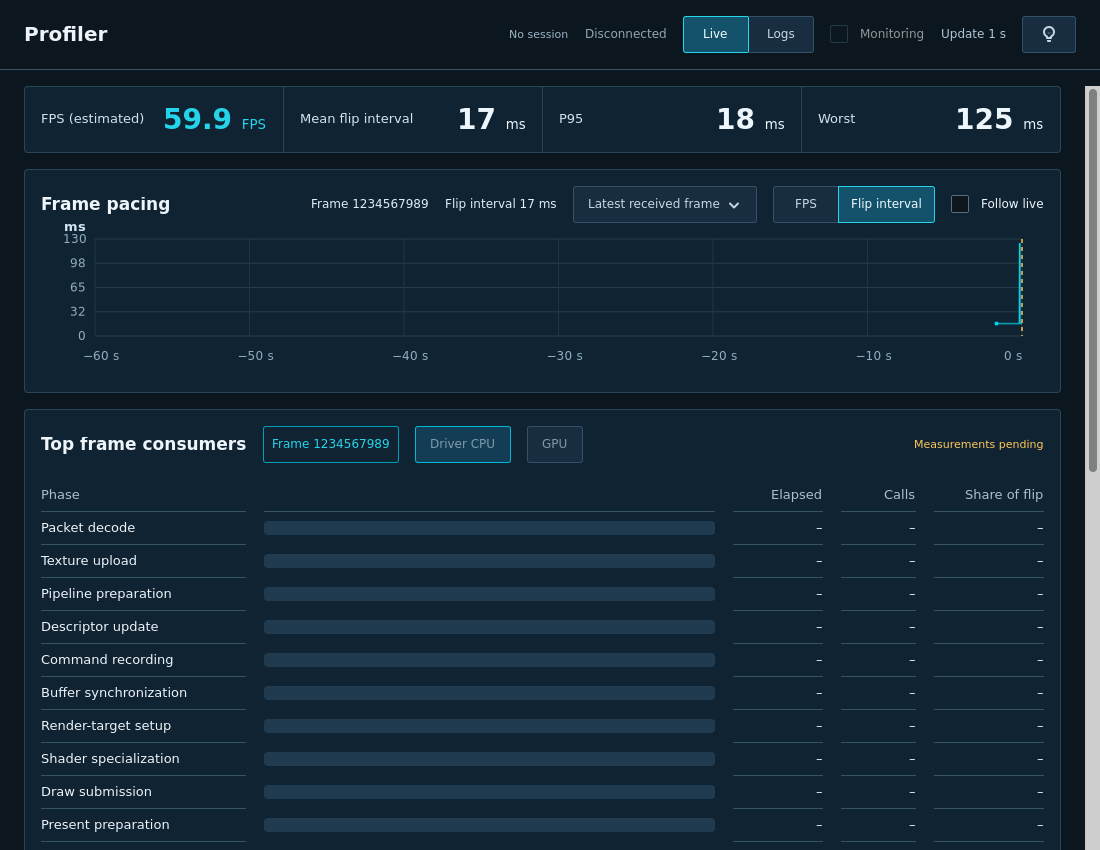
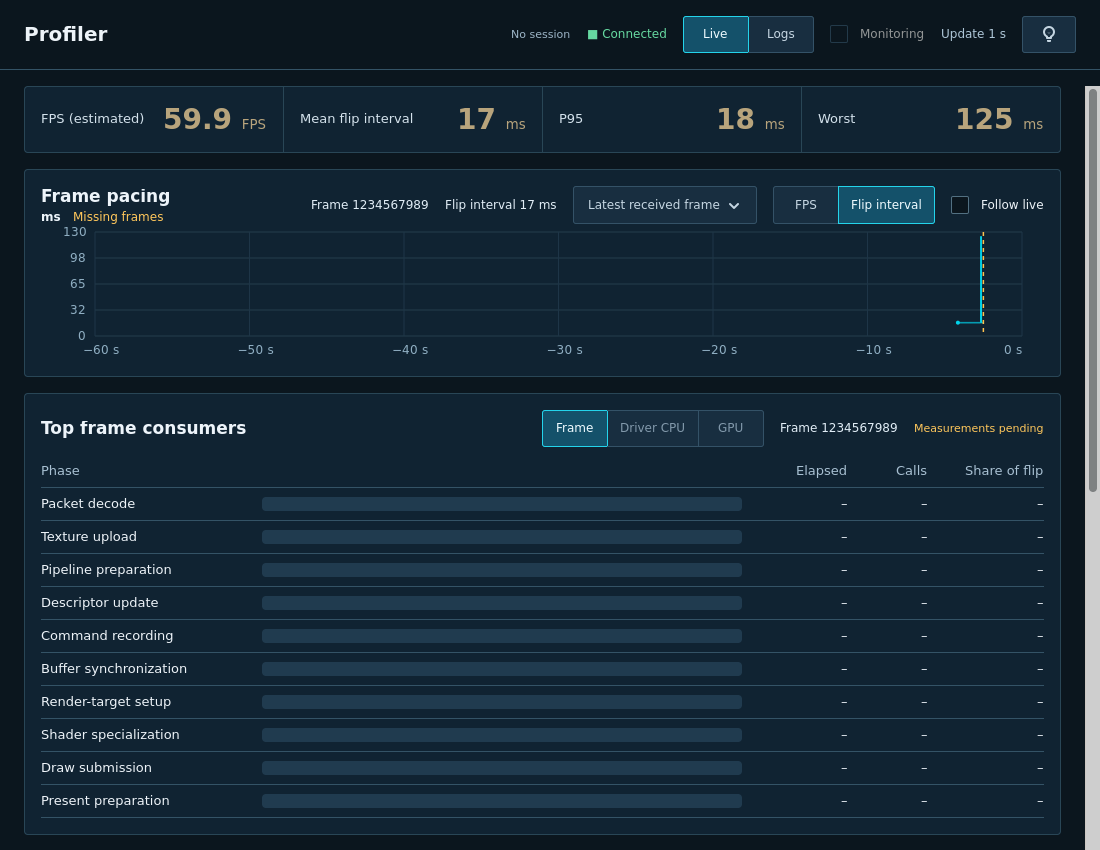
fix(profiler): align chart labels and consumer rows without a footer

diff --git a/assets/ui/style.css b/assets/ui/style.css
@@ -85,9 +85,10 @@ button { box-shadow: none; text-shadow: none; }
 .monitor-heading { font-size: 17px; font-weight: 600; color: #edf4fa; }
 .frame-value { font-size: 12px; color: #e1edf6; font-feature-settings: "tnum"; }
 .resource-row > flowboxchild { padding: 0; border: none; background: transparent; }
-.consumer-frame { color: #24d4eb; font-size: 12px; padding: 5px 8px; border: 1px solid #009fb9; border-radius: 3px; }
 .consumer-pending { font-size: 11px; color: #ffc75b; }
-.consumer-cell { font-size: 13px; padding: 8px 0; border-bottom: 1px solid #345366; }
+.consumer-cell { font-size: 13px; }
+.consumer-row { padding: 8px 0; border-bottom: 1px solid #345366; }
+.consumer-row.consumer-column { padding-top: 0; }
 .consumer-column { color: #a8c0d2; }
 .numeric, .resource-value { font-feature-settings: "tnum"; }
 .consumer-bar trough { min-height: 14px; border: none; border-radius: 4px; background: #203b4f; }
@@ -101,16 +102,23 @@ button { box-shadow: none; text-shadow: none; }
 .resource-gauge progress { min-width: 0; margin: 0; padding: 0; min-height: 8px; border: none; border-radius: 4px; background: #24d4eb; }
 .resource-gauge.over-budget progress { background: #e4ac5a; }
 .resource-panel.stale .resource-gauge { opacity: .5; }
-.profiler-footer { border-top: 1px solid #345366; padding: 16px 0 0; }
 .console-frame { border: 1px solid #294656; border-radius: 4px; background: #122431; }
 .profiler-console { padding: 0 24px 24px; }
 .console-empty { color: #8fa8ba; font-size: 15px; }
 
 .chart-header-overlay { background: #102332; }
 .profiler-page .segmented-control button { border-radius: 0; min-width: 40px; padding: 5px 12px; }
-/* The second button owns the shared divider; no overlapping borders. */
-.profiler-page .segmented-control button:first-child { border-radius: 3px 0 0 3px; border-right-width: 0; }
+/* Each following button owns its shared divider; no overlapping borders. */
+.profiler-page .segmented-control button:not(:last-child) { border-right-width: 0; }
+.profiler-page .segmented-control button:first-child { border-radius: 3px 0 0 3px; }
 .profiler-page .segmented-control button:last-child { border-radius: 0 3px 3px 0; }
 .profiler-page .segmented-control button:checked { background: #14516a; border-color: #24d4eb; color: #effbff; }
 .profiler-page .segmented-control button:checked + button { border-left-color: #24d4eb; }
 .profiler-page .segmented-control button:focus-visible { outline: 2px solid #a1e9f3; outline-offset: -3px; }
+
+.chart-unit { font-size: 12px; font-weight: 600; color: #edf4fa; }
+.chart-stale { font-size: 12px; color: #ffc75b; }
+
+.profiler-info { color: #edf4fa; }
+.profiler-info contents { background: #102332; border: 1px solid #294656; border-radius: 4px; padding: 16px; }
+.profiler-info arrow { background: #102332; border-color: #294656; }

diff --git a/src/ui/profiler.cpp b/src/ui/profiler.cpp
@@ -54,8 +54,8 @@ void chart_text(cairo_t* context, double x, double y, const std::string& text, b
 
 constexpr double chart_left = 54;
 constexpr double chart_right = 22;
-constexpr double chart_header_gap = 16;
-constexpr double chart_bottom = 40;
+constexpr double chart_header_gap = 8;
+constexpr double chart_bottom = 24;
 
 std::optional<double> chart_value(const MonitoringSnapshot& snapshot, std::size_t index, bool fps) {
     if (fps) return monitoring_fps_at(snapshot.samples, index);
@@ -140,7 +140,13 @@ ProfilerView::ProfilerView(std::function<void(bool)> request_monitoring)
         gtk_label_set_selectable(GTK_LABEL(endpoint), true);
         gtk_box_append(GTK_BOX(bridge), endpoint);
     }
+    window_state_ = label("Last 1 s", "resource-scope");
+    coverage_ = label("– / – samples · –", "monitor-coverage");
+    freshness_ = label("Latest frame received –", "monitor-freshness");
+    for (auto* diagnostic : {window_state_, coverage_, freshness_})
+        gtk_box_append(GTK_BOX(bridge), diagnostic);
     auto* popover = gtk_popover_new();
+    gtk_widget_add_css_class(popover, "profiler-info");
     gtk_popover_set_child(GTK_POPOVER(popover), bridge);
     auto* details = gtk_menu_button_new();
     gtk_menu_button_set_icon_name(GTK_MENU_BUTTON(details), "dialog-information-symbolic");
@@ -174,8 +180,18 @@ ProfilerView::ProfilerView(std::function<void(bool)> request_monitoring)
     auto* chart_panel = card();
     gtk_widget_add_css_class(chart_panel, "pacing-panel");
     auto* chart_header = gtk_box_new(GTK_ORIENTATION_HORIZONTAL, 16);
-    auto* chart_title = label("Frame pacing", "monitor-heading");
+    auto* chart_title = gtk_box_new(GTK_ORIENTATION_VERTICAL, 4);
     gtk_widget_set_hexpand(chart_title, true);
+    gtk_widget_set_valign(chart_title, GTK_ALIGN_START);
+    gtk_box_append(GTK_BOX(chart_title), label("Frame pacing", "monitor-heading"));
+    auto* chart_context = gtk_box_new(GTK_ORIENTATION_HORIZONTAL, 12);
+    chart_unit_ = label("FPS", "chart-unit");
+    gtk_box_append(GTK_BOX(chart_context), chart_unit_);
+    stall_state_ = label("", "chart-stale");
+    gtk_label_set_ellipsize(GTK_LABEL(stall_state_), PANGO_ELLIPSIZE_END);
+    gtk_widget_set_visible(stall_state_, false);
+    gtk_box_append(GTK_BOX(chart_context), stall_state_);
+    gtk_box_append(GTK_BOX(chart_title), chart_context);
     gtk_box_append(GTK_BOX(chart_header), chart_title);
     frame_identity_ = label("Frame –", "frame-value");
     frame_interval_ = label("Flip interval –", "frame-value");
@@ -198,6 +214,7 @@ ProfilerView::ProfilerView(std::function<void(bool)> request_monitoring)
     g_signal_connect(chart_fps_button_, "toggled", G_CALLBACK(+[](GtkToggleButton* button, gpointer data) {
         auto& self = *static_cast<ProfilerView*>(data);
         self.chart_fps_ = gtk_toggle_button_get_active(button);
+        gtk_label_set_text(GTK_LABEL(self.chart_unit_), self.chart_fps_ ? "FPS" : "ms");
         gtk_widget_queue_draw(self.chart_);
     }), this);
     gtk_box_append(GTK_BOX(chart_header), modes.root);
@@ -218,7 +235,7 @@ ProfilerView::ProfilerView(std::function<void(bool)> request_monitoring)
     chart_header_ = chart_header;
     gtk_widget_add_css_class(chart_header, "chart-header-overlay");
     chart_ = gtk_drawing_area_new();
-    gtk_drawing_area_set_content_height(GTK_DRAWING_AREA(chart_), 190);
+    gtk_drawing_area_set_content_height(GTK_DRAWING_AREA(chart_), 174);
     gtk_widget_set_hexpand(chart_, true);
     gtk_widget_set_tooltip_text(chart_, "FPS counts completed flips in the preceding source second. Click a sample to inspect. Missing samples are not interpolated.");
     gtk_drawing_area_set_draw_func(GTK_DRAWING_AREA(chart_), +[](GtkDrawingArea*, cairo_t* context, int width, int height, gpointer data) {
@@ -246,52 +263,52 @@ ProfilerView::ProfilerView(std::function<void(bool)> request_monitoring)
     gtk_widget_add_css_class(consumers, "consumers-panel");
     gtk_widget_set_size_request(consumers, 850, -1);
     gtk_widget_set_hexpand(consumers, true);
+    gtk_widget_set_valign(consumers, GTK_ALIGN_START);
     auto* consumer_header = gtk_box_new(GTK_ORIENTATION_HORIZONTAL, 16);
-    gtk_box_append(GTK_BOX(consumer_header), label("Top frame consumers", "monitor-heading"));
-    consumer_frame_ = label("Frame –", "consumer-frame");
+    auto* consumer_title = label("Top frame consumers", "monitor-heading");
+    gtk_widget_set_hexpand(consumer_title, true);
+    gtk_box_append(GTK_BOX(consumer_header), consumer_title);
+    const auto consumer_modes = ui::segmented_control("Frame", "Driver CPU", "GPU");
+    gtk_widget_set_sensitive(consumer_modes.second, false);
+    gtk_widget_set_sensitive(consumer_modes.third, false);
+    gtk_widget_set_tooltip_text(consumer_modes.root, "Per-frame CPU/GPU attribution is not available yet");
+    gtk_box_append(GTK_BOX(consumer_header), consumer_modes.root);
+    consumer_frame_ = label("Frame –", "frame-value");
+    gtk_label_set_ellipsize(GTK_LABEL(consumer_frame_), PANGO_ELLIPSIZE_END);
     gtk_box_append(GTK_BOX(consumer_header), consumer_frame_);
-    auto* cpu = gtk_toggle_button_new_with_label("Driver CPU");
-    gtk_toggle_button_set_active(GTK_TOGGLE_BUTTON(cpu), true);
-    gtk_widget_set_sensitive(cpu, false);
-    auto* gpu = gtk_toggle_button_new_with_label("GPU");
-    gtk_widget_set_sensitive(gpu, false);
-    gtk_box_append(GTK_BOX(consumer_header), cpu);
-    gtk_box_append(GTK_BOX(consumer_header), gpu);
     auto* pending = label("Measurements pending", "consumer-pending");
-    gtk_widget_set_hexpand(pending, true);
+    gtk_label_set_ellipsize(GTK_LABEL(pending), PANGO_ELLIPSIZE_END);
     gtk_label_set_xalign(GTK_LABEL(pending), 1);
     gtk_widget_set_tooltip_text(pending, "Per-frame phase attribution is not supplied by this runtime. Placeholder rows do not represent measured rankings.");
     gtk_box_append(GTK_BOX(consumer_header), pending);
     gtk_box_append(GTK_BOX(consumers), consumer_header);
-    auto* table = gtk_grid_new();
-    gtk_grid_set_column_spacing(GTK_GRID(table), 18);
-    gtk_grid_set_row_spacing(GTK_GRID(table), 0);
+    auto* table = gtk_box_new(GTK_ORIENTATION_VERTICAL, 0);
     const char* headings[] = {"Phase", "", "Elapsed", "Calls", "Share of flip"};
-    for (unsigned col = 0; col < 5; ++col) {
-        auto* heading = label(headings[col], "consumer-cell");
-        gtk_widget_add_css_class(heading, "consumer-column");
-        if (col > 1) gtk_label_set_xalign(GTK_LABEL(heading), 1);
-        gtk_grid_attach(GTK_GRID(table), heading, col, 0, 1, 1);
-    }
     const char* phases[] = {"Packet decode", "Texture upload", "Pipeline preparation", "Descriptor update", "Command recording",
         "Buffer synchronization", "Render-target setup", "Shader specialization", "Draw submission", "Present preparation"};
-    for (unsigned row = 0; row < 10; ++row) {
-        auto* phase = label(phases[row], "consumer-cell");
-        gtk_widget_set_size_request(phase, 205, -1);
-        gtk_grid_attach(GTK_GRID(table), phase, 0, row + 1, 1, 1);
-        auto* bar = gtk_progress_bar_new();
-        gtk_widget_add_css_class(bar, "consumer-bar");
-        gtk_widget_set_hexpand(bar, true);
-        gtk_widget_set_size_request(bar, 140, -1);
-        gtk_widget_set_valign(bar, GTK_ALIGN_CENTER);
-        gtk_grid_attach(GTK_GRID(table), bar, 1, row + 1, 1, 1);
-        for (unsigned col = 2; col < 5; ++col) {
-            auto* value = label("–", "consumer-cell");
-            gtk_widget_add_css_class(value, "numeric");
-            gtk_label_set_xalign(GTK_LABEL(value), 1);
-            gtk_widget_set_size_request(value, col == 2 ? 90 : col == 3 ? 75 : 110, -1);
-            gtk_grid_attach(GTK_GRID(table), value, col, row + 1, 1, 1);
+    const int widths[] = {205, 140, 90, 64, 100};
+    for (unsigned row = 0; row <= 10; ++row) {
+        auto* line = gtk_box_new(GTK_ORIENTATION_HORIZONTAL, 16);
+        gtk_widget_add_css_class(line, "consumer-row");
+        if (!row) gtk_widget_add_css_class(line, "consumer-column");
+        for (unsigned col = 0; col < 5; ++col) {
+            GtkWidget* cell;
+            if (row && col == 1) {
+                cell = gtk_progress_bar_new();
+                gtk_widget_add_css_class(cell, "consumer-bar");
+            } else {
+                cell = label(row ? (col == 0 ? phases[row - 1] : "–") : headings[col], "consumer-cell");
+                if (col > 1) {
+                    gtk_label_set_xalign(GTK_LABEL(cell), 1);
+                    gtk_widget_add_css_class(cell, "numeric");
+                }
+            }
+            gtk_widget_set_size_request(cell, widths[col], -1);
+            gtk_widget_set_hexpand(cell, col == 1);
+            gtk_widget_set_valign(cell, GTK_ALIGN_CENTER);
+            gtk_box_append(GTK_BOX(line), cell);
         }
+        gtk_box_append(GTK_BOX(table), line);
     }
     gtk_box_append(GTK_BOX(consumers), table);
     gtk_flow_box_insert(GTK_FLOW_BOX(lower), consumers, -1);
@@ -378,29 +395,6 @@ ProfilerView::ProfilerView(std::function<void(bool)> request_monitoring)
     gtk_box_append(GTK_BOX(side), memory_panel_);
     gtk_flow_box_insert(GTK_FLOW_BOX(lower), side, -1);
     gtk_box_append(GTK_BOX(live), lower);
-    auto* footer = gtk_box_new(GTK_ORIENTATION_HORIZONTAL, 16);
-    gtk_widget_add_css_class(footer, "profiler-footer");
-    gtk_box_append(GTK_BOX(footer), label("Main VideoOut", "resource-scope"));
-    window_state_ = label("Last 1 s", "resource-scope");
-    gtk_label_set_max_width_chars(GTK_LABEL(window_state_), 22);
-    gtk_label_set_ellipsize(GTK_LABEL(window_state_), PANGO_ELLIPSIZE_END);
-    gtk_box_append(GTK_BOX(footer), window_state_);
-    freshness_ = label("Latest frame received –", "monitor-freshness");
-    gtk_label_set_ellipsize(GTK_LABEL(freshness_), PANGO_ELLIPSIZE_END);
-    gtk_widget_set_hexpand(freshness_, true);
-    gtk_box_append(GTK_BOX(footer), freshness_);
-    stall_state_ = label("", "resource-scope");
-    gtk_widget_set_hexpand(stall_state_, true);
-    gtk_label_set_xalign(GTK_LABEL(stall_state_), 1);
-    gtk_label_set_ellipsize(GTK_LABEL(stall_state_), PANGO_ELLIPSIZE_END);
-    gtk_box_append(GTK_BOX(footer), stall_state_);
-    coverage_ = label("– / – samples · –", "monitor-coverage");
-    gtk_label_set_max_width_chars(GTK_LABEL(coverage_), 30);
-    gtk_label_set_ellipsize(GTK_LABEL(coverage_), PANGO_ELLIPSIZE_END);
-    gtk_label_set_xalign(GTK_LABEL(coverage_), 1);
-    gtk_box_append(GTK_BOX(footer), coverage_);
-    gtk_box_append(GTK_BOX(live), footer);
-
     auto* console = gtk_box_new(GTK_ORIENTATION_VERTICAL, 14);
     gtk_widget_set_vexpand(console, true);
     auto* actions = gtk_box_new(GTK_ORIENTATION_HORIZONTAL, 20);
@@ -612,7 +606,10 @@ void ProfilerView::monitoring(const MonitoringSnapshot& snapshot) {
     else gtk_widget_remove_css_class(freshness_, "stale");
     const auto stall = snapshot.stall_evidence == "instrumented_work_active" ? "Missing frames · instrumented work active" :
         snapshot.stall_evidence == "unknown" ? "Missing frames · cause unknown" : "";
-    gtk_label_set_text(GTK_LABEL(stall_state_), stall);
+    gtk_label_set_text(GTK_LABEL(stall_state_), *stall ? "Missing frames" : retained ? "Stale data" : "");
+    gtk_widget_set_visible(stall_state_, retained || *stall);
+    const auto stall_detail = freshness + (*stall ? std::string(" · ") + stall : "");
+    gtk_widget_set_tooltip_text(stall_state_, stall_detail.c_str());
     update_frame_detail();
     update_resources();
     gtk_widget_queue_draw(chart_);
@@ -809,12 +806,6 @@ void ProfilerView::draw_chart(cairo_t* context, int width, int height) noexcept 
             cairo_set_source_rgb(context, 0.56, 0.68, 0.76);
             chart_text(context, chart_left - 10, y + 4, number(value, 0), true);
         }
-        cairo_set_source_rgb(context, 0.83, 0.90, 0.95);
-        cairo_select_font_face(context, "Sans", CAIRO_FONT_SLANT_NORMAL, CAIRO_FONT_WEIGHT_BOLD);
-        cairo_set_font_size(context, 13);
-        chart_text(context, chart_left - 10, chart_top - 8, chart_fps_ ? "FPS" : "ms", true);
-        cairo_select_font_face(context, "Sans", CAIRO_FONT_SLANT_NORMAL, CAIRO_FONT_WEIGHT_NORMAL);
-        cairo_set_font_size(context, 12);
         for (unsigned tick = 0; tick <= 6; ++tick) {
             const double x = chart_left + plot_width * tick / 6.0;
             cairo_set_source_rgb(context, 0.12, 0.21, 0.28);
@@ -823,7 +814,7 @@ void ProfilerView::draw_chart(cairo_t* context, int width, int height) noexcept 
             cairo_stroke(context);
             cairo_set_source_rgb(context, 0.56, 0.68, 0.76);
             const auto text = tick == 6 ? "0 s" : "−" + std::to_string(60 - tick * 10) + " s";
-            chart_text(context, x - (tick == 6 ? 0 : 12), height - 16, text, tick == 6);
+            chart_text(context, x - (tick == 6 ? 0 : 12), height - 6, text, tick == 6);
         }
         if (monitoring_.samples.empty()) {
             cairo_set_source_rgb(context, 0.58, 0.69, 0.77);

diff --git a/src/ui/components.hpp b/src/ui/components.hpp
@@ -48,9 +48,10 @@ struct SegmentedControl {
     GtkWidget* root;
     GtkWidget* first;
     GtkWidget* second;
+    GtkWidget* third;
 };
 
-inline SegmentedControl segmented_control(const char* first, const char* second) {
+inline SegmentedControl segmented_control(const char* first, const char* second, const char* third = nullptr) {
     auto* root = gtk_box_new(GTK_ORIENTATION_HORIZONTAL, 0);
     gtk_widget_add_css_class(root, "segmented-control");
     auto* a = gtk_toggle_button_new_with_label(first);
@@ -59,7 +60,13 @@ inline SegmentedControl segmented_control(const char* first, const char* second)
     gtk_toggle_button_set_active(GTK_TOGGLE_BUTTON(a), true);
     gtk_box_append(GTK_BOX(root), a);
     gtk_box_append(GTK_BOX(root), b);
-    return {root, a, b};
+    GtkWidget* c = nullptr;
+    if (third) {
+        c = gtk_toggle_button_new_with_label(third);
+        gtk_toggle_button_set_group(GTK_TOGGLE_BUTTON(c), GTK_TOGGLE_BUTTON(a));
+        gtk_box_append(GTK_BOX(root), c);
+    }
+    return {root, a, b, c};
 }
 
 inline GtkWidget* header_overlay(GtkWidget* content, GtkWidget* header) {

diff --git a/src/ui/profiler.hpp b/src/ui/profiler.hpp
@@ -68,6 +68,7 @@ private:
     GtkWidget* chart_ = nullptr;
     GtkWidget* chart_fps_button_ = nullptr;
     GtkWidget* chart_header_ = nullptr;
+    GtkWidget* chart_unit_ = nullptr;
     GtkGesture* chart_click_ = nullptr;
     GtkWidget* resource_panel_ = nullptr;
     GtkWidget* resource_state_ = nullptr;

diff --git a/docs/profiling.md b/docs/profiling.md
@@ -9,11 +9,11 @@ Additional attribution terms: see NOTICE in the repository root.
 
 The Profiler has **Live** and **Logs** views for an externally launched game. The Logs view's output-only VTE terminal receives merged stdout/stderr directly, interprets terminal colors and progress updates, and retains 5000 scrollback lines. The runtime also writes the complete raw session log at `<framerift-data-root>/logs/<game-id>/<session-id>/game.log`; display-only LF-to-CRLF normalization leaves that file unchanged. There is no shell, PTY or file polling. Disable Follow output and scroll up to inspect earlier output; the Copy button, Ctrl+C or Ctrl+Shift+C copies selected text. Logs remain visible after process exit and the terminal clears for the next session.
 
-The Live view uses the [UDP debug bridge and MCP server](debug-bridge.md). Managed game starts automatically request **Monitoring** after the bridge handshake, including starts through MCP. The toggle can disable it for that session. Monitoring receives successful main-output flip summaries from a bridge-enabled AnyPS5 build. The dashboard updates once per second with estimated FPS, mean/P95/worst flip interval, sample coverage, latest/worst frame details and a bounded 60-second history. Live/Logs and chart mode use the same segmented control. The compact chart has a fixed FPS axis from 0 to 75; higher observations remain in the measurements but are clipped in the plot. Flip interval keeps its automatic scale. The FPS axis labels only 13, 30 and 60, with a brighter unit label. Sample counts, coverage and observation-window state sit in the bottom status row, outside the four-metric overview. The chart defaults to **FPS**; a segmented control always shows both **FPS** and **Flip interval**, with the active mode highlighted. Frame identity, interval and latest/worst selection sit in the chart header overlay; output identity is available in the frame tooltip. FPS history counts completed flips in the preceding source second, requiring a reliable full-second baseline; it does not invert each individual interval. Brief catch-up flips therefore do not create artificial 400-FPS spikes. Missing samples and pauses of at least one second break the line, and the live time axis advances while frames stop arriving. The overview FPS estimate remains the reciprocal of the mean valid interval in its displayed source window. Selecting a chart point preserves that frame until Follow live is resumed. Collection continues across tab changes; stop/disconnect retains the last observation with an explicit inactive/stale state.
+The Live view uses the [UDP debug bridge and MCP server](debug-bridge.md). Managed game starts automatically request **Monitoring** after the bridge handshake, including starts through MCP. The toggle can disable it for that session. Monitoring receives successful main-output flip summaries from a bridge-enabled AnyPS5 build. The dashboard updates once per second with estimated FPS, mean/P95/worst flip interval, sample coverage, latest/worst frame details and a bounded 60-second history. Live/Logs and chart mode use the same segmented control. The compact chart has a fixed FPS axis from 0 to 75; higher observations remain in the measurements but are clipped in the plot. Flip interval keeps its automatic scale. The FPS axis labels only 13, 30 and 60. A native FPS/ms label sits beneath the chart title; the time axis uses compact bottom spacing. Sample counts, coverage, observation-window state and receive age live in the Info popup. The dashboard has no footer; stale or missing frames remain visible beside the chart unit. The chart defaults to **FPS**; a segmented control always shows both **FPS** and **Flip interval**, with the active mode highlighted. Frame identity, interval and latest/worst selection sit in the chart header overlay; output identity is available in the frame tooltip. FPS history counts completed flips in the preceding source second, requiring a reliable full-second baseline; it does not invert each individual interval. Brief catch-up flips therefore do not create artificial 400-FPS spikes. Missing samples and pauses of at least one second break the line, and the live time axis advances while frames stop arriving. The overview FPS estimate remains the reciprocal of the mean valid interval in its displayed source window. Selecting a chart point preserves that frame until Follow live is resumed. Collection continues across tab changes; stop/disconnect retains the last observation with an explicit inactive/stale state.
 
 The same normalized model is available through `get_monitoring_snapshot`. Game-side monotonic timestamps determine intervals and source windows; UDP receive age determines freshness. The first completion after activation or output reset has no interval. Per-stream completion IDs identify missing samples separately from general packet gaps and producer drops. The dashboard does not acknowledge telemetry, parse timing files or enable existing timing/draw/GPU log settings. CPU hotspots, GPU execution tables, saved snapshots and screenshots remain later increments.
 
-The workspace follows [profiler-live-v6](../assets/design/profiler-live-v6.png): a metric strip, full-width frame-pacing chart, ten-row frame-consumer table and separate **Shader activity** and **Memory** panels. The Profiler shares the Library background, with darker navy cards, 4 px corners and consistent spacing. The compact overview places each label beside its right-aligned value, with smaller FPS/ms units. Visible millisecond values are rounded to integers; tooltips retain the precise values. Live content scrolls vertically; resource rows keep their natural height, and memory budgets use full-width bars beneath each label/value pair. Numbers use tabular digits and align to the right. Detailed frame attribution is not supplied yet: consumer rows show empty bars and `–`, with a pending state; they are not measured rankings. Capture and input-script UI remain deferred.
+The workspace follows [profiler-live-v6](../assets/design/profiler-live-v6.png): a metric strip, full-width frame-pacing chart, ten-row frame-consumer table and separate **Shader activity** and **Memory** panels. The Profiler shares the Library background, with darker navy cards, 4 px corners and consistent spacing. The compact overview places each label beside its right-aligned value, with smaller FPS/ms units. Visible millisecond values are rounded to integers; tooltips retain the precise values. Live content scrolls vertically; resource rows keep their natural height, and memory budgets use full-width bars beneath each label/value pair. Numbers use tabular digits and align to the right. The consumer header uses the shared Frame / Driver CPU / GPU control, with a separate plain frame number. Unavailable modes are disabled. Fixed column widths, consistent 16 px gaps and full-row dividers align the table; the card keeps its natural height. Detailed frame attribution is not supplied yet: consumer rows show empty bars and `–`, with a pending state; they are not measured rankings. Capture and input-script UI remain deferred.
 
 Shader activity shows translation, specialization, pipeline build and shader-module creation. **Active** is the current gauge; **Done** is cumulative completed attempts since process start and resets with a new game process. **Elapsed / window** shows completed/failed attempt wall time in the indicated observed resource window. Nested timings overlap and do not measure GPU execution or additive CPU utilization. Queues, cached variants, retained CPU payload and disk-cache counters appear beneath the table. Tooltips expose scopes, failures, lifetime timing and other instrumented work without permanent explanatory text.
 

diff --git a/docs/profiler-design-review.md b/docs/profiler-design-review.md
@@ -21,11 +21,13 @@ The current layout was checked in an isolated GTK window using the actual Profil
 
 ![Wide native fixture: FPS and checked controls](../assets/screenshots/profiler-controls-wide.png)
 
-![Narrow native fixture: flip interval and unchecked controls](../assets/screenshots/profiler-controls-narrow.png)
+![Narrow native fixture: flip interval, stale data and unchecked controls](../assets/screenshots/profiler-controls-narrow.png)
 
 ![Logs selection using the same segmented control](../assets/screenshots/profiler-logs-control.png)
 
 ![Narrow native fixture: scrolled resources](../assets/screenshots/profiler-controls-resources.png)
+
+![Native diagnostics popup](../assets/screenshots/profiler-diagnostics-popup.png)
 
 ## Visual direction
 
@@ -35,14 +37,16 @@ Cards use 16 px internal padding and 16 px section/column gaps. Shader work and 
 
 ## Verification
 
-Live/Logs reuses the chart segmented control. The shared divider is drawn once and follows the selected side; screenshots verify complete outlines for both left and right selection. Native mouse clicks verify switching to Logs and returning to Live while preserving chart mode. The chart drawing area is 190 px high and the FPS axis is fixed at 0–75 with labels at 13, 30 and 60 and a brighter bold unit label; interval mode still scales automatically.
+The chart header uses a native title/unit column with 8 px plot separation. Bottom axis labels end 6 px above the drawing-area edge, followed by the shared 16 px card padding. The consumer header shares the segmented control for Frame/Driver CPU/GPU; its frame number is plain text. Consumer rows use fixed column widths, 16 px gaps and full-row dividers; the card keeps natural height rather than stretching below the last row. Unavailable CPU/GPU modes stay disabled.
 
-The revised controls were inspected at 1500 × 1250 and 1100 × 850. Both mode captions remain readable with a ten-digit frame ID and a three-digit worst interval. Native toggling confirms mutual exclusion and redraw in both modes. Follow live and Monitoring were checked on and off; the indicator allocation is 16 × 16 without inherited theme padding. Disabled controls remain distinct from enabled options. Narrow layouts stack the resource column; scrolling exposes the complete shader/memory cards without horizontal overflow. The top strip contains only the four metrics, with labels beside their values and smaller baseline-aligned units. It is about 20 px shorter than the stacked layout. Visible millisecond values round to integers, with full precision in tooltips; sample counts, coverage and observation-window state sit in the bottom status row, verified in wide and scrolled narrow layouts. All dashboard card containers share one factory and CSS class, 16 px padding/gaps and 4 px corners. Theme-independent button foregrounds are explicit.
+Live/Logs reuses the chart segmented control. The shared divider is drawn once and follows the selected side; screenshots verify complete outlines for both left and right selection. Native mouse clicks verify switching to Logs and returning to Live while preserving chart mode. The chart drawing area is 174 px high and the FPS axis is fixed at 0–75 with labels at 13, 30 and 60 and a native unit label beneath the title; interval mode still scales automatically.
+
+The revised controls were inspected at 1500 × 1250 and 1100 × 850. Both mode captions remain readable with a ten-digit frame ID and a three-digit worst interval. Native toggling confirms mutual exclusion and redraw in both modes. Follow live and Monitoring were checked on and off; the indicator allocation is 16 × 16 without inherited theme padding. Disabled controls remain distinct from enabled options. Narrow layouts stack the resource column; scrolling exposes the complete shader/memory cards without horizontal overflow. The top strip contains only the four metrics, with labels beside their values and smaller baseline-aligned units. It is about 20 px shorter than the stacked layout. Visible millisecond values round to integers, with full precision in tooltips; sample counts, coverage, observation-window state and receive age live in the Info popup. There is no footer. A stale/missing-frame badge beside the chart unit was checked at narrow width. All dashboard card containers share one factory and CSS class, 16 px padding/gaps and 4 px corners. Theme-independent button foregrounds are explicit.
 
 - Native shell check: connection status remains beside Profiler on both pages; search and refresh are visible in Library and hidden in Profiler. Branding, Settings and window controls keep the shared shell styling.
 - Native build succeeds (`cmake --build build -j2`); the previous workspace implementation also passed a full clean build.
 - Bridge and game MCP checks pass. Added frame-rate checks cover 60 FPS, a 2.5 ms catch-up interval, a five-second stall, loss and epoch changes.
-- Native scrolling checked at a shorter height. The right-edge scrollbar stays outside card padding, and scrolling reaches the complete shader/memory cards and footer. A taller window keeps the same resource spacing.
+- Native scrolling checked at a shorter height. The right-edge scrollbar stays outside card padding, and scrolling reaches the complete shader/memory cards. A taller window keeps the same resource spacing.
 - Native monitoring, FPS/interval toggle, selection/Follow live, Logs and Library navigation checked while the game continued running; session control used Codex FrameRift MCP.
 - Done counters use process totals; inactive windows do not reset them. Elapsed uses the separately labeled observed window.
 - Missing data uses `–`; actual zero memory remains `0 B`. Native telemetry does not manufacture example rankings or timings.

diff --git a/docs/design.md b/docs/design.md
@@ -56,7 +56,7 @@ Account for long names, missing logos, very bright images and missing artwork. C
 
 The current Profiler has **Live** and **Logs** views. The game runs in its external window. A compact session strip identifies process, bridge and monitoring state.
 
-The overview shows estimated FPS and mean/P95/worst flip intervals. A full-width pacing chart defaults to FPS, with a segmented FPS/Flip interval control showing both options and frame details/selection overlaid in its header. Reusable GTK factories provide labels, a shared card component, metric fields, segmented controls and header overlays. Below it, a ten-row consumer table reserves per-frame timing, call counts and share bars. Shader activity and memory occupy the right column. Missing consumer data uses `–` and empty bars; source age and unavailable/stale states remain explicit. The dashboard contains no automation pane.
+The overview shows estimated FPS and mean/P95/worst flip intervals. A full-width pacing chart defaults to FPS, with a segmented FPS/Flip interval control showing both options and frame details/selection overlaid in its header. Reusable GTK factories provide labels, a shared card component, metric fields, segmented controls and header overlays. Below it, a ten-row consumer table uses shared Frame/Driver CPU/GPU controls, a separate frame number, fixed numeric columns and full-row dividers. It reserves per-frame timing, call counts and share bars. Diagnostics live in the Info popup; a compact stale/missing-frame indicator stays beside the chart unit. Shader activity and memory occupy the right column. Missing consumer data uses `–` and empty bars; source age and unavailable/stale states remain explicit. The dashboard contains no automation pane.
 
 See [Profiling](profiling.md) for implemented measurement semantics and [native visual review](profiler-design-review.md) for screenshots against the v6 reference. [Profiler workspace and game input scripts](profiler-workspace.md) describes deferred capture and script requirements.
 
